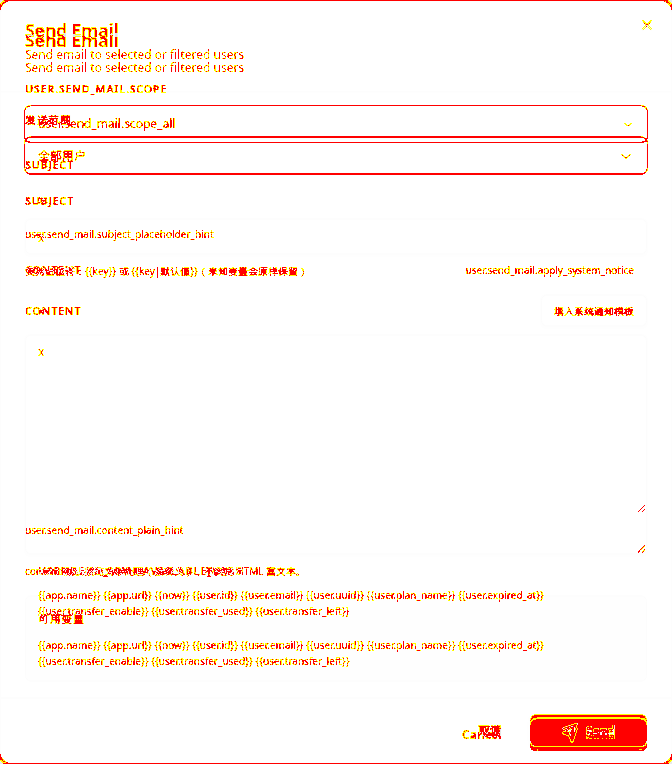
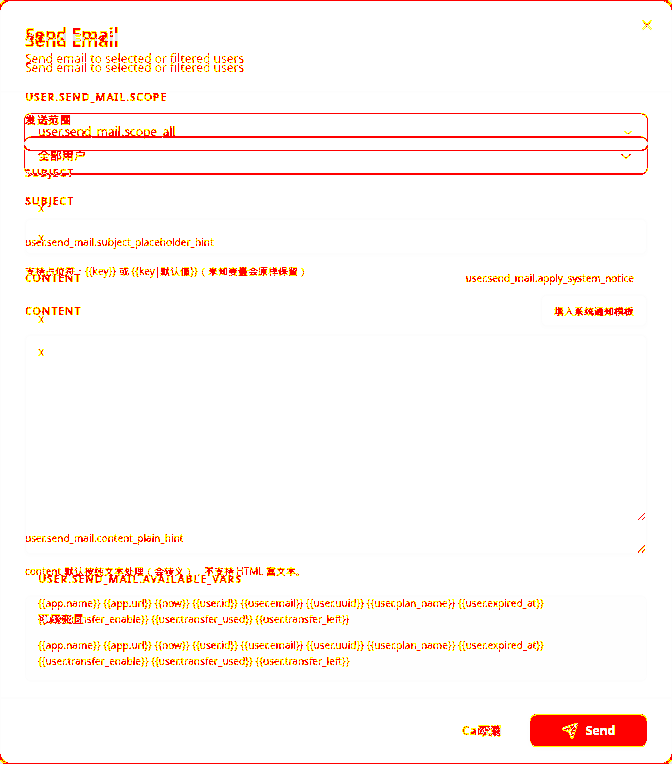
fix(admin): R12 plan dialog metrics + StatCard Card + dashboard gate mask
- Plan/Gift header min-h-[67px] pb-4 pt-6; footer min-h-[63px] py-4
- Plan textarea min-h-[232px]; price prefix ¥ as span (suffixSpans=2)
- InlineFlag component for sign-in locale button
- StatCard uses Card/CardHeader/CardContent for 7001 DOM parity
- visual-gate dashboard: mask recharts + stat values for stable diff

diff --git a/frontend/admin/src/components/shared/StatCard.tsx b/frontend/admin/src/components/shared/StatCard.tsx
@@ -1,6 +1,7 @@
 import type { LucideIcon } from 'lucide-react'
 import { TrendingUp } from 'lucide-react'
 import { cn } from '@/lib/utils'
+import { Card, CardContent, CardHeader, CardTitle } from '@/components/ui/card'
 
 type Props = {
   title: string
@@ -32,7 +33,7 @@ export function StatCard({
   const neutral = g === 0
 
   return (
-    <div
+    <Card
       role={onClick ? 'button' : undefined}
       tabIndex={onClick ? 0 : undefined}
       onClick={onClick}
@@ -47,16 +48,16 @@ export function StatCard({
           : undefined
       }
       className={cn(
-        'rounded-xl border bg-card text-card-foreground shadow transition-colors',
+        'rounded-xl shadow transition-colors',
         (clickable || onClick) && 'cursor-pointer hover:bg-muted/50',
         className,
       )}
     >
-      <div className="flex flex-row items-center justify-between space-y-0 p-6 pb-2">
-        <h3 className="text-sm font-medium tracking-tight">{title}</h3>
+      <CardHeader className="flex flex-row items-center justify-between p-6 pb-2">
+        <CardTitle className="text-sm font-medium tracking-tight">{title}</CardTitle>
         {Icon ? <Icon className={cn('h-4 w-4 text-muted-foreground', iconClassName)} /> : null}
-      </div>
-      <div className="p-6 pt-0">
+      </CardHeader>
+      <CardContent className="p-6 pt-0">
         <div className="text-2xl font-bold">{value}</div>
         {growth !== undefined ? (
           <div className="flex items-center pt-1">
@@ -80,7 +81,7 @@ export function StatCard({
           </div>
         ) : null}
         {subtitle ? <p className="pt-1 text-xs text-muted-foreground">{subtitle}</p> : null}
-      </div>
-    </div>
+      </CardContent>
+    </Card>
   )
 }

diff --git a/frontend/admin/src/pages/modules/PlanPage.tsx b/frontend/admin/src/pages/modules/PlanPage.tsx
@@ -454,7 +454,7 @@ export default function PlanPage() {
 
       <Dialog open={dialogOpen} onOpenChange={setDialogOpen}>
         <DialogContent className="!flex h-[810px] max-h-[810px] flex-col gap-0 overflow-hidden p-0 sm:max-w-[576px]">
-          <DialogHeader className="shrink-0 px-6 pb-3 pt-5 text-left">
+          <DialogHeader className="flex min-h-[67px] shrink-0 flex-col justify-center px-6 pb-4 pt-6 text-left">
             <DialogTitle className="text-lg font-semibold leading-none tracking-tight">
               {editing
                 ? t('subscribe.plan.form.edit_title')
@@ -607,9 +607,9 @@ export default function PlanPage() {
                       placeholder={t('subscribe.plan.form.price.base_price')}
                       onChange={(e) => setBasePrice(e.target.value)}
                     />
-                    <div className="pointer-events-none absolute left-2 top-1/2 -translate-y-1/2 text-xs text-muted-foreground">
+                    <span className="pointer-events-none absolute left-2 top-1/2 -translate-y-1/2 text-xs text-muted-foreground">
                       ¥
-                    </div>
+                    </span>
                   </div>
                   <Button
                     type="button"
@@ -696,7 +696,7 @@ export default function PlanPage() {
                   </div>
                 </div>
                 <textarea
-                  className={`${textareaCls} min-h-[229px]`}
+                  className={`${textareaCls} min-h-[232px]`}
                   placeholder={t('subscribe.plan.form.content.placeholder')}
                   value={form.content ?? ''}
                   onChange={(e) => setForm((f) => ({ ...f, content: e.target.value }))}

diff --git a/frontend/admin/src/pages/LoginPage.tsx b/frontend/admin/src/pages/LoginPage.tsx
@@ -5,7 +5,7 @@ import { useTranslation } from 'react-i18next'
 import { clearAuthData, getAuthData, login } from '@/lib/api'
 import { getSettings } from '@/lib/settings'
 import { ADMIN_LOCALES, localeLabel, setLocale } from '@/lib/i18n'
-import flags from '@/components/shared/flag-svgs.json'
+import { InlineFlag } from '@/components/shared/InlineFlag'
 import { LocaleFlag } from '@/components/shared/LocaleFlag'
 import { PasswordInput } from '@/components/shared/PasswordInput'
 import { Label } from '@/components/ui/label'
@@ -82,12 +82,7 @@ export default function LoginPage() {
               type="button"
               className="inline-flex h-8 items-center justify-center gap-1 whitespace-nowrap rounded-md px-2 text-xs font-medium transition-colors hover:bg-accent hover:text-accent-foreground focus-visible:outline-none focus-visible:ring-1 focus-visible:ring-ring disabled:pointer-events-none disabled:opacity-50 [&_svg]:pointer-events-none [&_svg]:size-4 [&_svg]:shrink-0"
             >
-              <span
-                className="contents"
-                dangerouslySetInnerHTML={{
-                  __html: flags[i18n.language as keyof typeof flags] ?? flags['en-US'],
-                }}
-              />
+              <InlineFlag locale={i18n.language} />
               <span className="text-sm font-medium">{localeLabel(i18n.language)}</span>
             </button>
           </DropdownMenuTrigger>

diff --git a/frontend/admin/src/pages/modules/UserPage.tsx b/frontend/admin/src/pages/modules/UserPage.tsx
@@ -1135,7 +1135,7 @@ export default function UserPage() {
 
       <Dialog open={mailOpen} onOpenChange={setMailOpen}>
         <DialogContent className="!flex h-[764px] max-h-[764px] flex-col gap-0 overflow-hidden p-0 sm:max-w-2xl">
-          <DialogHeader className="shrink-0 xb-stack-15 border-b px-6 pb-3 pt-5 text-left">
+          <DialogHeader className="shrink-0 xb-stack-15 border-b px-6 pb-4 pt-6 text-left">
             <DialogTitle className="text-lg font-semibold leading-none tracking-tight">
               {t('user.send_mail.title')}
             </DialogTitle>
@@ -1263,7 +1263,7 @@ export default function UserPage() {
         onOpenChange={(o) => !o && setDialogMode(null)}
       >
         <DialogContent className="!flex h-[468px] max-h-[468px] flex-col gap-0 overflow-hidden p-0 sm:max-w-[576px]">
-          <DialogHeader className="shrink-0 border-b px-6 pb-3 pt-5">
+          <DialogHeader className="shrink-0 border-b px-6 pb-4 pt-6">
             <DialogTitle className="text-lg font-semibold leading-none tracking-tight">
               {t('user.generate.title')}
             </DialogTitle>

diff --git a/frontend/admin/src/components/shared/InlineFlag.tsx b/frontend/admin/src/components/shared/InlineFlag.tsx
@@ -1,0 +1,19 @@
+import flags from '@/components/shared/flag-svgs.json'
+import { cn } from '@/lib/utils'
+
+type Props = {
+  locale: string
+  className?: string
+}
+
+/** Render flag SVG as direct child nodes (7001 sign-in locale button uses button > svg). */
+export function InlineFlag({ locale, className }: Props) {
+  const svg = flags[locale as keyof typeof flags] ?? flags['en-US']
+  return (
+    <span
+      className={cn('inline-flex shrink-0 [&>svg]:h-4 [&>svg]:w-5 [&>svg]:rounded-sm [&>svg]:shadow-sm', className)}
+      // eslint-disable-next-line react/no-danger
+      dangerouslySetInnerHTML={{ __html: svg }}
+    />
+  )
+}

diff --git a/frontend/admin/src/pages/modules/GiftCardPage.tsx b/frontend/admin/src/pages/modules/GiftCardPage.tsx
@@ -1353,7 +1353,7 @@ export default function GiftCardPage() {
 
         <DialogContent className="!flex h-[810px] max-h-[810px] flex-col gap-0 overflow-hidden p-0 sm:max-w-[576px]">
 
-          <DialogHeader className="shrink-0 xb-stack-15 px-6 pb-3 pt-5 text-left">
+          <DialogHeader className="flex min-h-[67px] shrink-0 flex-col justify-center xb-stack-15 px-6 pb-4 pt-6 text-left">
 
             <DialogTitle className="text-lg tracking-tight">
 

diff --git a/frontend/admin/src/components/shared/DialogFormFooter.tsx b/frontend/admin/src/components/shared/DialogFormFooter.tsx
@@ -25,7 +25,7 @@ export function DialogFormFooter({
   extraLeft,
 }: Props) {
   return (
-    <DialogFooter className="shrink-0 border-t px-6 py-3">
+    <DialogFooter className="flex min-h-[63px] shrink-0 flex-col justify-center border-t px-6 py-4">
       <div className="flex w-full items-center justify-between gap-3">
         <div className="flex items-center gap-2">{extraLeft}</div>
         <div className="flex items-center gap-3">
